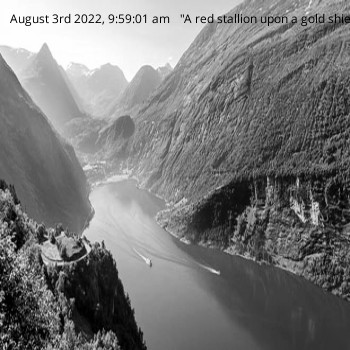
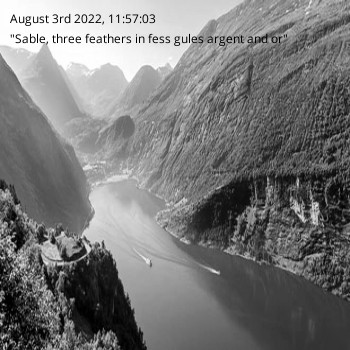
Añadiendo frase de API de GOT a la imagen debajo de la fecha

Changed region(s): [[0.0286, 0.0286, 1.0, 0.1429]]

diff --git a/c5/ej_black_and_white/app.js b/c5/ej_black_and_white/app.js
@@ -25,7 +25,8 @@ app.get('/img-black-white', async (req, res) => {
             image.resize(350, 350)
                 .greyscale()
                 .quality(90)
-                .print(font, 10, 10, `${moment().format('MMMM Do YYYY, h:mm:ss a')}\n ${await getRandomPhrase()}`)
+                .print(font, 10, 10, `${moment().format('MMMM Do YYYY, h:mm:ss')}`)
+                .print(font, 10, 30, `${await getRandomPhrase()}`)
                 .write('public/images/newImg.jpg');
             res.redirect('/images/newImg.jpg');
         } else {
